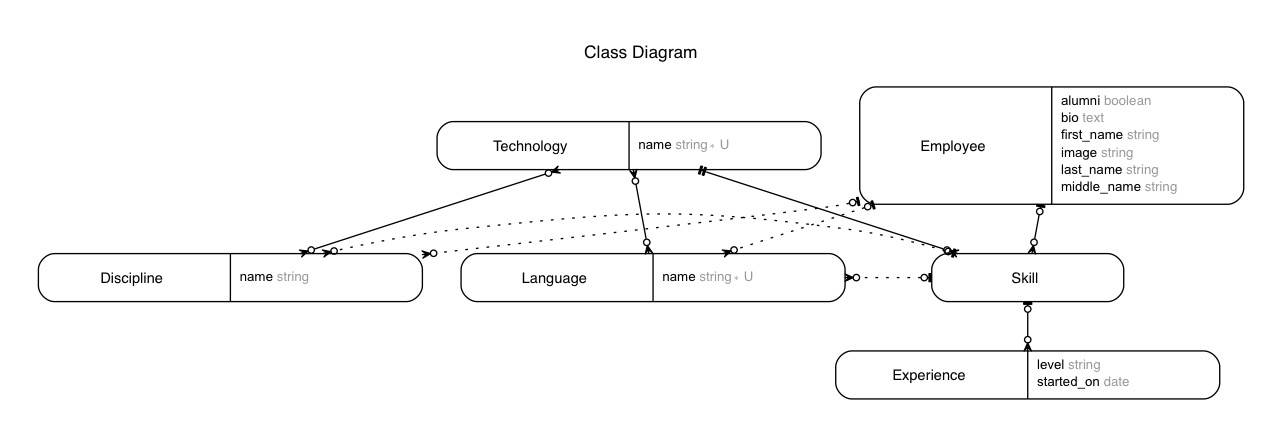
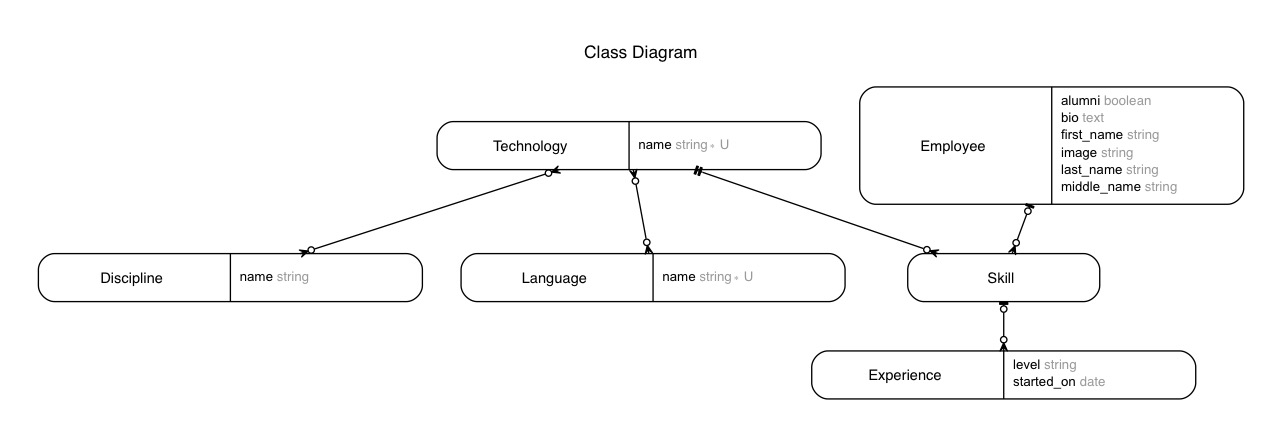
Remove `has_many through` relations

diff --git a/frontend/app/models/employee.js b/frontend/app/models/employee.js
@@ -1,14 +1,27 @@
 import DS from 'ember-data';
 
+const { Model, attr, hasMany, belongsTo } = DS
+const { computed } = Ember
+
 export default DS.Model.extend({
   fullName: DS.attr('string'),
   alumni: DS.attr('boolean'),
   bio: DS.attr('string'),
   image: DS.attr('string'),
   skills: DS.hasMany('skill'),
-  languages: DS.hasMany('language'),
-  disciplines: DS.hasMany('discipline'),
-  startedFrom: Ember.computed('skills.[]', function() {
+  languageNames: computed('skills.[]', function() {
+    let fn = (acc, skill) => acc.concat(skill.get('languageNames'));
+    let arr = this.get('skills').reduce(fn, []);
+
+    return arr.uniq();
+  }),
+  disciplineNames: computed('skills.[]', function() {
+    let fn = (acc, skill) => acc.concat(skill.get('disciplineNames'));
+    let arr = this.get('skills').reduce(fn, []);
+
+    return arr.uniq();
+  }),
+  startedFrom: computed('skills.[]', function() {
     return this.get('skills').
       sortBy('startedOn').
       get('firstObject.startedOn');

diff --git a/frontend/app/models/skill.js b/frontend/app/models/skill.js
@@ -1,15 +1,13 @@
 import DS from 'ember-data';
 
-const {Model, attr, hasMany} = DS
+const {Model, attr, hasMany, belongsTo} = DS
 const {computed} = Ember
 
 export default Model.extend({
-  technology:         attr('string'),
-  languages:          hasMany('language'),
-  disciplines:        hasMany('discipline'),
+  technology:         belongsTo('technology'),
   experiences:        hasMany('experience'),
-  languageNames:      computed.mapBy('languages', 'name'),
-  disciplineNames:    computed.mapBy('disciplines', 'name'),
+  languageNames:      computed.mapBy('technology.languages', 'name'),
+  disciplineNames:    computed.mapBy('technology.disciplines', 'name'),
   experienceLevels:   computed.mapBy('experiences', 'level'),
   experienceYears:    computed.mapBy('experiences', 'years'),
   maxExperienceYear:  computed.max('experienceYears'),

diff --git a/frontend/tests/unit/models/technology-test.js b/frontend/tests/unit/models/technology-test.js
@@ -1,0 +1,12 @@
+import { moduleForModel, test } from 'ember-qunit';
+
+moduleForModel('technology', 'Unit | Model | technology', {
+  // Specify the other units that are required for this test.
+  needs: []
+});
+
+test('it exists', function(assert) {
+  let model = this.subject();
+  // let store = this.store();
+  assert.ok(!!model);
+});

diff --git a/frontend/app/models/technology.js b/frontend/app/models/technology.js
@@ -1,0 +1,10 @@
+import DS from 'ember-data';
+
+const {Model, attr, hasMany, belongsTo} = DS
+const {computed} = Ember
+
+export default DS.Model.extend({
+  name:         attr('string'),
+  languages:    hasMany('language'),
+  disciplines:  hasMany('discipline')
+});

diff --git a/app/controllers/api/v1/employees_controller.rb b/app/controllers/api/v1/employees_controller.rb
@@ -1,9 +1,9 @@
 class Api::V1::EmployeesController < ApplicationController
   def index
-    render json: Employee.includes(:languages, skills: [:languages, :disciplines, :experiences]).all, include: ['skills', 'languages', 'disciplines', 'skills.experiences']
+    render json: Employee.includes(skills: [ { technology: [:languages, :disciplines] }, :experiences]).all, include: ['skills', 'skills.technology', 'skills.technology.languages', 'skills.technology.disciplines', 'skills.experiences']
   end
 
   def show
-    render json: Employee.includes(skills: [:languages, :disciplines, :experiences]).find(params[:id]), include: ['skills', 'languages', 'disciplines', 'skills.experiences']
+    render json: Employee.includes(skills: [ { technology: [:languages, :disciplines] }, :experiences]).find(params[:id]), include: ['skills', 'skills.technology', 'skills.technology.languages', 'skills.technology.disciplines', 'skills.experiences']
   end
 end

diff --git a/app/models/skill.rb b/app/models/skill.rb
@@ -1,7 +1,5 @@
 class Skill < ApplicationRecord
   belongs_to :technology
-  has_many :languages, through: :technology
-  has_many :disciplines, through: :technology
   has_many :experiences, -> { order(:started_on) }, dependent: :destroy
 
   validates :technology_id, uniqueness: { scope: :employee_id }

diff --git a/app/models/employee.rb b/app/models/employee.rb
@@ -1,7 +1,5 @@
 class Employee < ApplicationRecord
   has_many :skills, dependent: :destroy
-  has_many :languages, -> { distinct }, through: :skills
-  has_many :disciplines, -> { distinct }, through: :skills
 
   def full_name
     [first_name, middle_name, last_name].join(' ')

diff --git a/app/serializers/skill_serializer.rb b/app/serializers/skill_serializer.rb
@@ -1,11 +1,6 @@
 class SkillSerializer < ActiveModel::Serializer
-  attributes :id, :technology
+  attributes :id
 
-  has_many :languages
-  has_many :disciplines
   has_many :experiences
-
-  def technology
-    object.technology_name
-  end
+  belongs_to :technology
 end

diff --git a/app/serializers/employee_serializer.rb b/app/serializers/employee_serializer.rb
@@ -2,6 +2,4 @@ class EmployeeSerializer < ActiveModel::Serializer
   attributes :id, :full_name, :alumni, :image, :bio
 
   has_many :skills
-  has_many :languages
-  has_many :disciplines
 end

diff --git a/app/serializers/technology_serializer.rb b/app/serializers/technology_serializer.rb
@@ -1,0 +1,6 @@
+class TechnologySerializer < ActiveModel::Serializer
+  attributes :id, :name
+
+  has_many :languages
+  has_many :disciplines
+end
